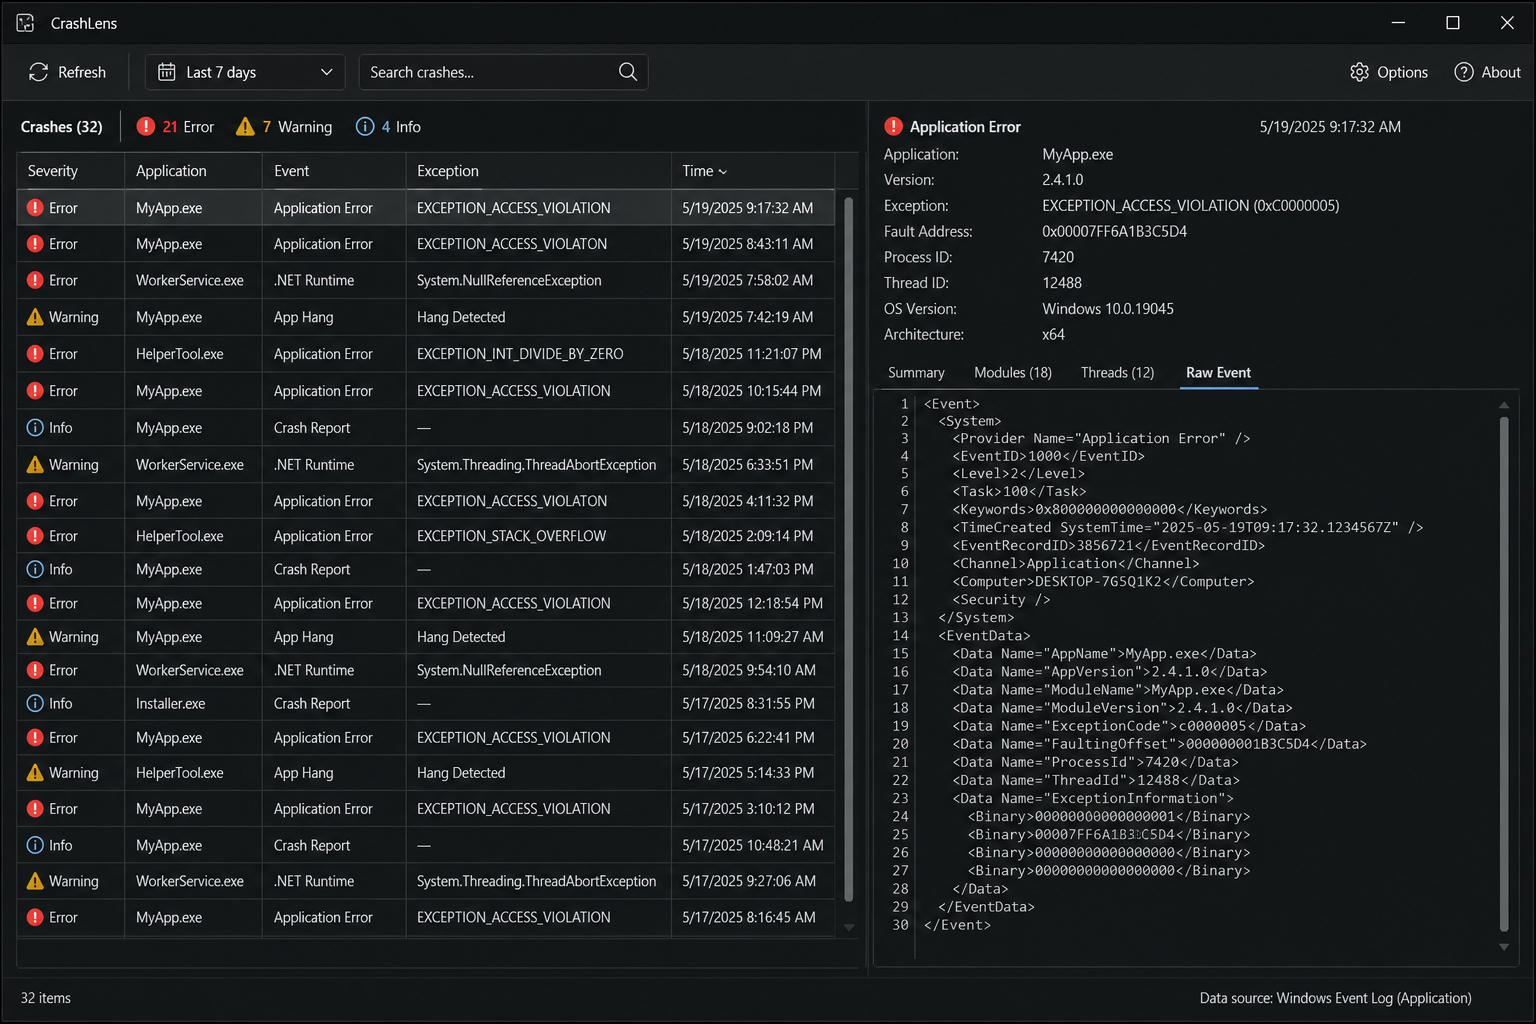
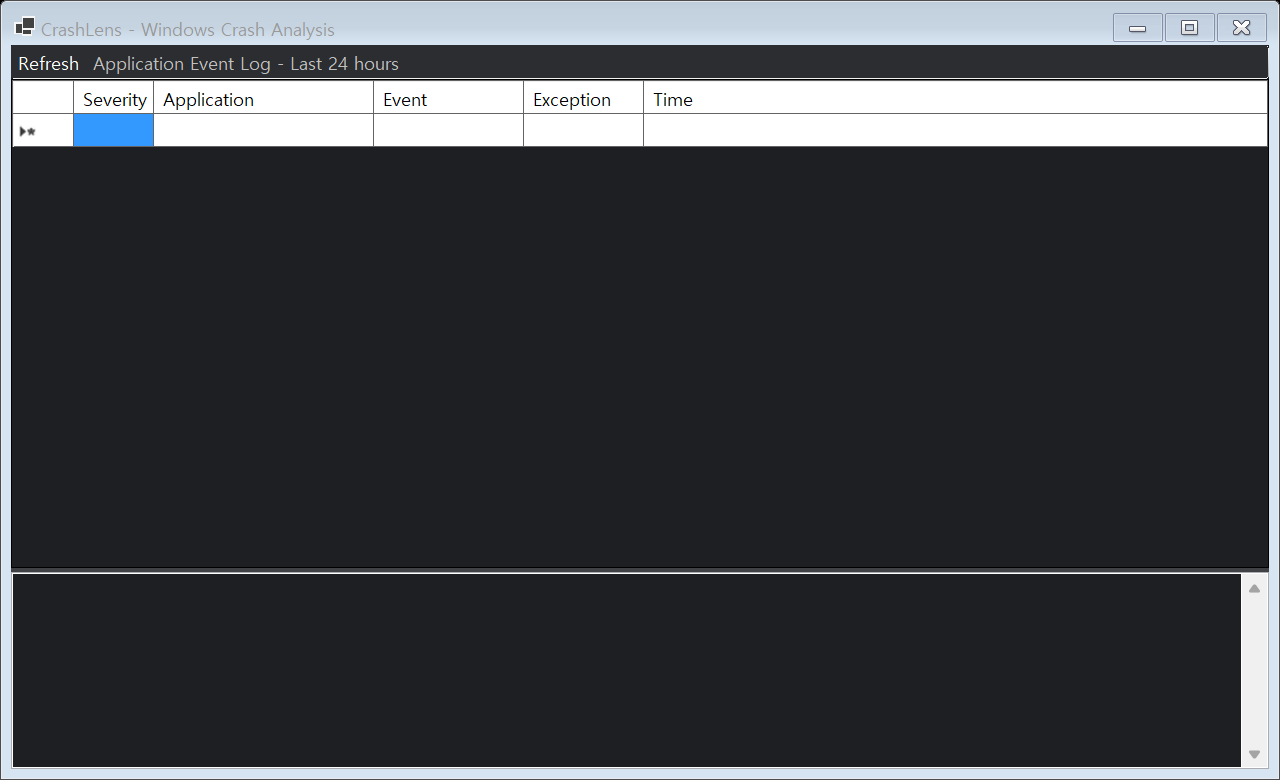
docs: replace mockup with real application capture

diff --git a/src/CrashLens.Desktop/Program.cs b/src/CrashLens.Desktop/Program.cs
@@ -3,10 +3,11 @@ using CrashLens.Core;
 using CrashLens.Infrastructure;
 
 ApplicationConfiguration.Initialize();
-Application.Run(new CrashLensForm());
+Application.Run(new CrashLensForm(Environment.GetCommandLineArgs().Contains("--capture", StringComparer.OrdinalIgnoreCase)));
 
 sealed class CrashLensForm : Form
 {
+    readonly bool capture;
     readonly DataGridView grid = new() { Dock = DockStyle.Fill, ReadOnly = true, AutoGenerateColumns = false, BackgroundColor = Color.FromArgb(30, 31, 34), ForeColor = Color.White };
     readonly TextBox details = new() { Dock = DockStyle.Fill, Multiline = true, ReadOnly = true, ScrollBars = ScrollBars.Both, Font = new Font("Consolas", 10), BackColor = Color.FromArgb(30, 31, 34), ForeColor = Color.Gainsboro };
     readonly BindingSource source = new();
@@ -14,8 +15,9 @@ sealed class CrashLensForm : Form
     readonly NotifyIcon tray = new() { Icon = SystemIcons.Error, Text = "CrashLens is monitoring crashes", Visible = true };
     EventLogWatcher? watcher;
 
-    public CrashLensForm()
+    public CrashLensForm(bool capture)
     {
+        this.capture = capture;
         Text = "CrashLens - Windows Crash Analysis"; Width = 1280; Height = 780; BackColor = Color.FromArgb(30, 31, 34); ForeColor = Color.White;
         var tool = new ToolStrip { GripStyle = ToolStripGripStyle.Hidden, BackColor = Color.FromArgb(43, 45, 48), ForeColor = Color.White };
         var refresh = new ToolStripButton("Refresh") { ForeColor = Color.White }; refresh.Click += async (_, _) => await LoadEvents(); tool.Items.Add(refresh); tool.Items.Add(new ToolStripLabel("Application Event Log - Last 24 hours") { ForeColor = Color.Silver });
@@ -24,8 +26,18 @@ sealed class CrashLensForm : Form
         grid.DataSource = source; grid.SelectionChanged += (_, _) => ShowSelected();
         var split = new SplitContainer { Dock = DockStyle.Fill, Orientation = Orientation.Horizontal, SplitterDistance = 390, BackColor = Color.FromArgb(63, 65, 69) }; split.Panel1.Controls.Add(grid); split.Panel2.Controls.Add(details); Controls.Add(split); Controls.Add(tool); tool.Dock = DockStyle.Top;
         var menu = new ContextMenuStrip(); menu.Items.Add("Open CrashLens", null, (_, _) => OpenWindow()); menu.Items.Add("Exit", null, (_, _) => { tray.Visible = false; Application.Exit(); }); tray.ContextMenuStrip = menu; tray.BalloonTipClicked += (_, _) => OpenWindow(); tray.DoubleClick += (_, _) => OpenWindow();
-        Shown += async (_, _) => { await LoadEvents(); StartMonitoring(); };
+        Shown += async (_, _) => { if (capture) { BeginInvoke(CaptureScreenshot); return; } await LoadEvents(); StartMonitoring(); };
         FormClosing += (_, e) => { if (e.CloseReason == CloseReason.UserClosing) { e.Cancel = true; Hide(); tray.ShowBalloonTip(2500, "CrashLens", "CrashLens is still monitoring application crashes.", ToolTipIcon.Info); } };
+    }
+
+    void CaptureScreenshot()
+    {
+        using var bitmap = new Bitmap(Width, Height);
+        DrawToBitmap(bitmap, new Rectangle(Point.Empty, Size));
+        Directory.CreateDirectory(Path.Combine(AppContext.BaseDirectory, "docs", "images"));
+        bitmap.Save(Path.Combine(AppContext.BaseDirectory, "docs", "images", "crashlens-main.png"));
+        tray.Visible = false;
+        Application.Exit();
     }
 
     void StartMonitoring()
